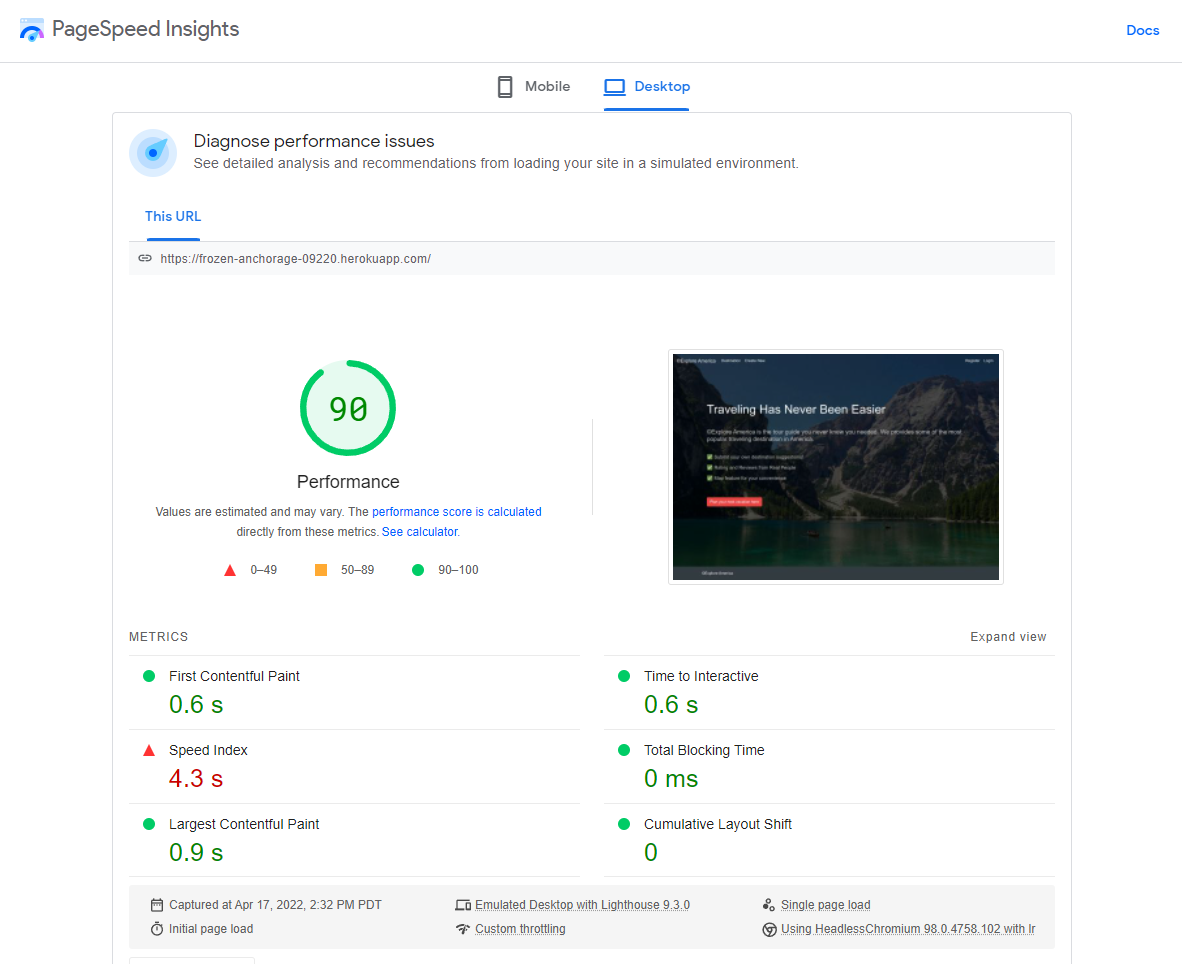
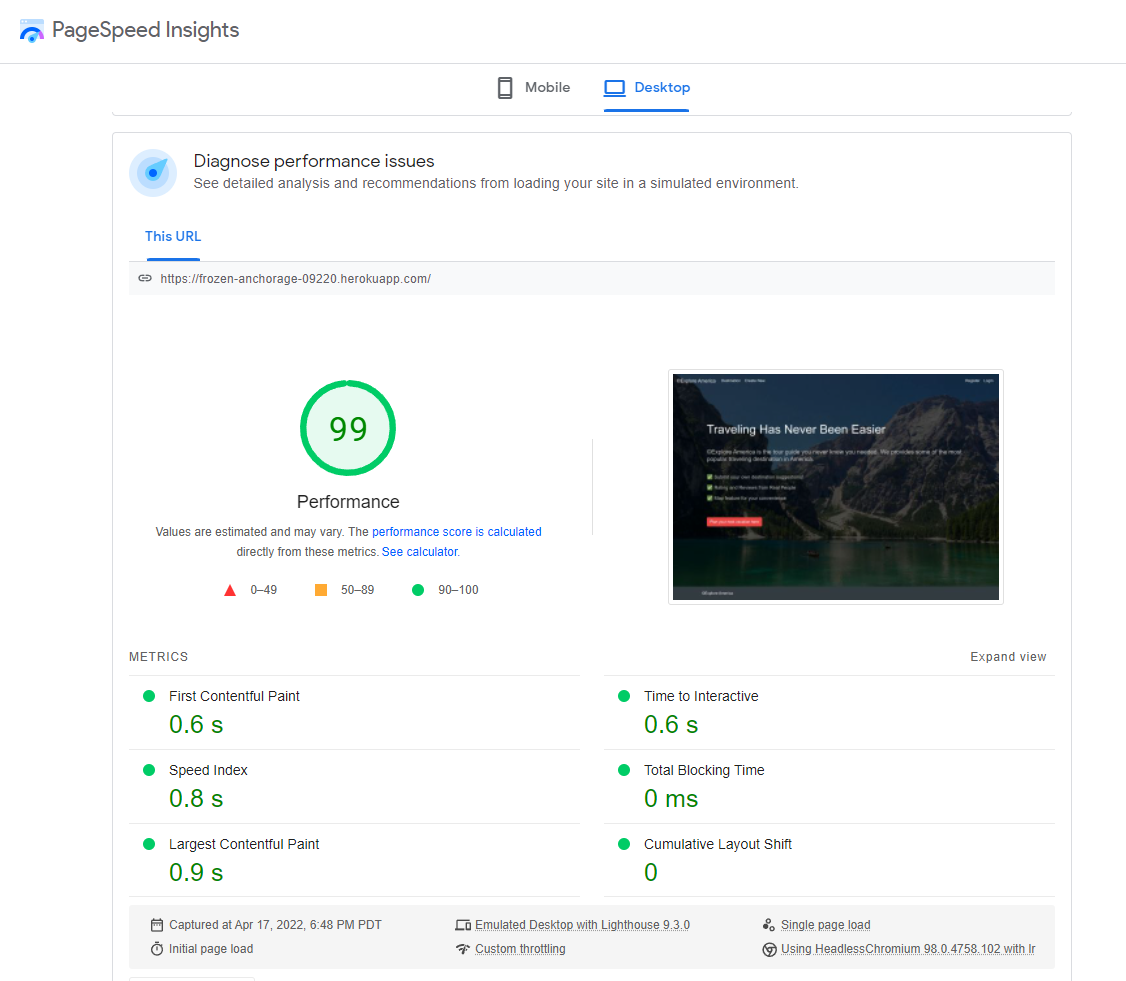
readme

diff --git a/README.md b/README.md
@@ -8,7 +8,7 @@ Front End: HTML, CSS, Bootstrap, Javascript, EJS Templating Engine
 Back End: Node.js, Express.js, MongoDB  
 Deployment: Heroku  
 
-***This website achieved a score of 90%+ on Google PageSpeed Insights***
+***This website achieved a score of 99% on Google PageSpeed Insights***
 
 ***Window 10 PC Demo***
 
@@ -86,6 +86,6 @@ Users can leave their own review and stars (from 1 star to 5 stars ) on each des
 
 ### Performance Scores
 
-***This website achieved a score of 90%+ on Google PageSpeed Insights***
+***This website achieved a score of 99% on Google PageSpeed Insights***
 
 <img src="https://github.com/jeffylau50/ExploreAmericaWebsite/blob/master/demo/testResult.PNG"/>
